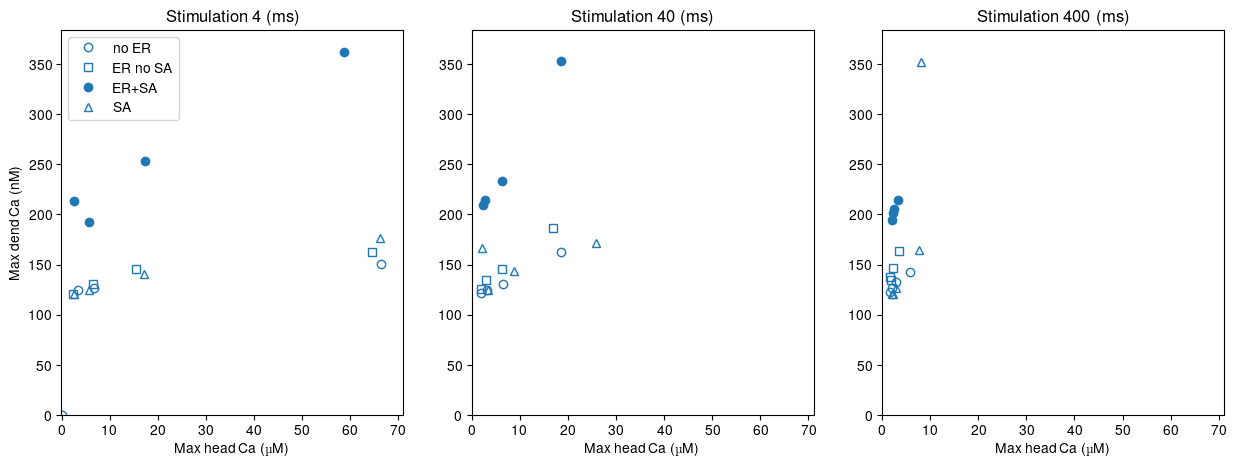
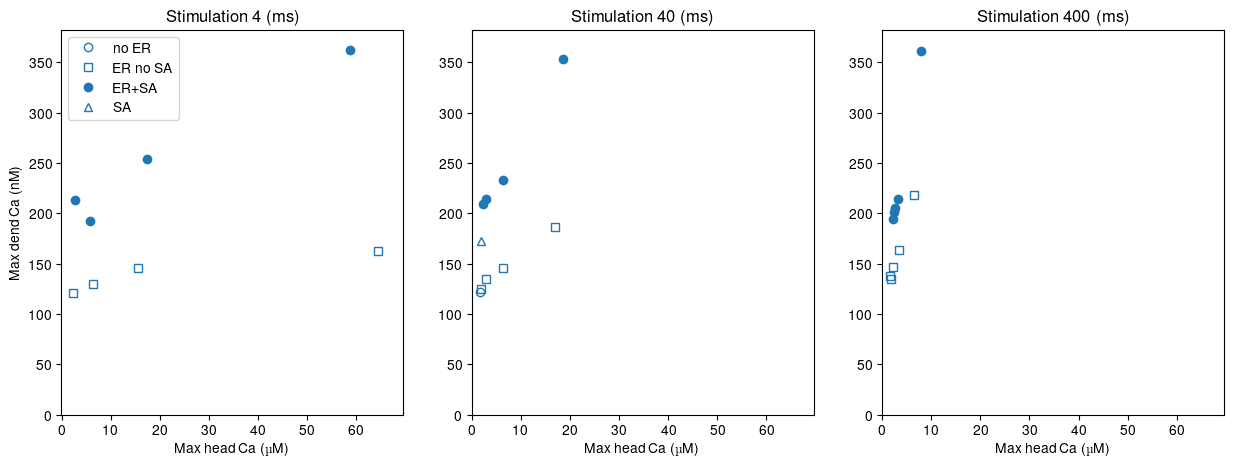
Current state of results

diff --git a/scripts/utility_functions.py b/scripts/utility_functions.py
@@ -417,57 +417,64 @@ def get_distance(conc_dict, dt, t_init, stim_len, spine_idx, rollo=True,
     
     for i, concentration in enumerate(conc_dict.values()):
         ca_conc = np.zeros((shape,))
-        
-        
+      
         new_beg = int((t_init)/dt)
+        ca_ctrl = concentration[:, int(1000/dt):new_beg].mean(axis=(0,1))
+        ca_std = concentration[:, int(1000/dt):new_beg].std()
+        try:
+            ca_max = concentration[:, new_beg:].max()/2 #ca_ctrl+6*ca_std
+       
+        except ValueError:
+            continue
+
+        ca_lim = ca_ctrl+5*ca_std
         indices = []
         for j in range(spine_idx, shape):
             
             try:
-                new_idx = concentration[j, new_beg-100:new_beg + stim_len
+                new_idx = concentration[j, new_beg:new_beg + stim_len
                                         + interval].argmax()
             except ValueError:
                 continue
 
-            ca_conc[j] = concentration[j, new_beg-100+new_idx]
-
-            if ca_conc[j] > limit*ca_ctrl and j==spine_idx:
+            ca_conc[j] = concentration[j, new_beg+new_idx]
+            
+            if ca_conc[j] > ca_lim and j==spine_idx:
                 indices.append(j)
-            elif ca_conc[j] > limit*ca_ctrl and j-1 in indices:
+            elif ca_conc[j] > ca_lim and j-1 in indices:
                     indices.append(j)
-            elif ca_conc[j] > limit*ca_ctrl and j-2 in indices:
+            elif ca_conc[j] > ca_lim and j-2 in indices:
                     indices.append(j)
                     indices.append(j-1)
             else:
                 break
-            print(j, ca_conc[j], new_beg +new_idx -100-int((t_init)/dt))
+
             if rollo:
                 new_beg = new_beg +new_idx -100
     
         new_beg = int((t_init)/dt)         
         for j in range(spine_idx-1, -1, -1):
             try:
-                new_idx = concentration[j, new_beg-100:new_beg
+                new_idx = concentration[j, new_beg:new_beg
                                         +stim_len+interval].argmax()
             except ValueError:
                 continue
-            ca_conc[j] = concentration[j, new_beg-100+new_idx]
+            ca_conc[j] = concentration[j, new_beg+new_idx]
          
-            if ca_conc[j] > limit*ca_ctrl and j==spine_idx-1:
+            if ca_conc[j] > ca_lim and j==spine_idx-1:
                 indices.append(j)
                 
-            elif ca_conc[j] > limit*ca_ctrl and j+1 in indices:
+            elif ca_conc[j] > ca_lim and j+1 in indices:
                 indices.append(j)
-            elif ca_conc[j] > limit*ca_ctrl and j+2 in indices:
+            elif ca_conc[j] > ca_lim and j+2 in indices:
                 indices.append(j)
                 indices.append(j+1)
             else:
                 break
-            print(j, ca_conc[j], new_beg +new_idx -100-int((t_init)/dt))
             if rollo:
                 new_beg = new_beg + new_idx -100
         decays[i] = len(indices)/2*0.5
-        #print(indices)
+        
     return decays
 
 
@@ -568,6 +575,8 @@ def make_distance_figs(directories, stim_dict, output, types, markers,
                        ylabel=r"Spatial spread ($\unit{\micro\metre}$))"):
     fig1, ax1 = plt.subplots(1, len(stim_dict.keys()),
                              figsize=(len(stim_dict.keys())*5, 5))
+    fig2, ax2 = plt.subplots(1, len(stim_dict.keys()),
+                              figsize=(len(stim_dict.keys())*5, 5))
     for k, dur in enumerate(stim_dict.keys()):
         
         
@@ -595,26 +604,34 @@ def make_distance_figs(directories, stim_dict, output, types, markers,
                 trials = len(dend_ca.keys())
                 auch = np.zeros((trials))
                 for j, trial in enumerate(dend_ca.keys()):
-                    auch[j] = head_ca[trial][1, t_start:].sum()/(71*len(head_ca[trial][1, t_start:]))
-
+                    auch[j] = head_ca[trial][1, t_start:].sum()/(len(head_ca[trial][1, t_start:])*head_ca[trial][1,:t_start].mean())
+                    
                 spread = get_distance(dend_ca, dt, t_init=t_init, stim_len=int(dur),
                                       spine_idx=spine_idx)
                 auc_head_m.append(auch.mean())
+                
                 auc_head_e.append(auch.std()/trials**0.5)
                 spread_m.append(spread.mean())
                 spread_e.append(spread.std()/trials**0.5)
-                
+                ax2[k].plot(auch, spread,label=types[i], marker=markers[i],
+                            fillstyle=fillstyles[i], color="tab:blue",
+                            linewidth=0)
             print(auc_head_m, spread_m, spread_e)
-            ax1[k].errorbar(auc_head_m, spread_m, yerr=spread_e, xerr=auc_head_e,label=types[i], marker=markers[i],
-                            fillstyle=fillstyles[i], color="tab:blue", linewidth=0)
+            ax1[k].errorbar(auc_head_m, spread_m, spread_e,
+                            label=types[i], marker=markers[i],
+                            fillstyle=fillstyles[i], color="tab:blue",
+                            linewidth=0)
         ax1[k].set_title("Stimulation %s (ms)"% dur)      
-
-           
-            
+        ax2[k].set_title("Stimulation %s (ms)"% dur)      
         ax1[k].set_ylabel(ylabel)
         ax1[k].set_xlabel(xlabel)
+        ax2[k].set_ylabel(ylabel)
+        ax2[k].set_xlabel(xlabel)
+
     pretty_axis(ax1)
+    pretty_axis(ax2)
     ax1[0].legend()
+    ax2[0].legend()
     return fig1
 
 
@@ -671,9 +688,9 @@ def max_vs_auc_head_neck_dend(directories, stim_dict, output, types, markers,
                     except ValueError:
                         break
                     maxd[j] = dend_ca[trial][:, t_start:].mean(axis=0).max()
-                    auch[j] = head_ca[trial][1, t_start:].sum()/71/len(head_ca[trial][1, t_start:])
-                    aucn[j] = neck_ca[trial][:, t_start:].sum()/71/len(head_ca[trial][1, t_start:])
-                    aucd[j] = dend_ca[trial][:, t_start:].sum()/2/71/len(head_ca[trial][1, t_start:])
+                    auch[j] = head_ca[trial][1, t_start:].sum()/(len(head_ca[trial][1, t_start:])*head_ca[trial][1,:t_start].mean())
+                    aucn[j] = neck_ca[trial][:, t_start:].sum()/(len(head_ca[trial][1, t_start:])*neck_ca[trial][:,:t_start].mean())
+                    aucd[j] = dend_ca[trial][:, t_start:].sum()/2/(len(head_ca[trial][1, t_start:])*dend_ca[trial][:, :t_start].mean())
                     
              
                 auc_head_m.append(auch.mean())

diff --git a/scripts/max_ca_vs_distance_ca_inj.py b/scripts/max_ca_vs_distance_ca_inj.py
@@ -1,0 +1,34 @@
+import os
+
+import matplotlib.pyplot as plt
+
+import utility_functions as utils
+
+
+colors = {"1.2": 'tab:blue',
+          "2.4": 'tab:purple',
+          "6.0": 'tab:green'}
+
+files_no_ER_ctrl = os.path.join("..", "1_spine_1_EPSP",
+                           "model_RyR2CaM_%s_um_dend_spine_1_EPSP.h5")
+files_ER_ctrl = os.path.join("..", "1_spine_1_EPSP",
+                             "model_RyR2CaM_RyR3CaM_%s_um_dend_spine_1_EPSP.h5")
+files_ER_big_spine = os.path.join("..", "1_spine_1_EPSP",
+                                  "model_RyR2CaM_RyR3CaM_%s_um_dend_big_spine_1_EPSP.h5")
+files_ER_big_spine_IC = os.path.join("..", "1_spine_1_EPSP",
+                                  "model_RyR2CaM_RyR3CaM_%s_um_dend_big_spine_IC_1_EPSP.h5")
+
+dend_diam = ["1.2"]
+types = ["no spine ER", "spine ER", "big spine ER", "big spine RyR3CaM in spine head"]
+markers = ["^", "o", "s", "*"]
+
+
+if __name__ == '__main__':
+    fig =  utils.make_distance_fig([files_no_ER_ctrl, files_ER_ctrl, files_ER_big_spine,
+                                    files_ER_big_spine_IC],
+                                   t_init=3000, dend_diam=dend_diam, what_species="Ca",
+                                   output_name="all",
+                                   colors=colors, types=types, markers=markers)
+    plt.show()
+    fig.savefig("Max_Ca_conc_1_EPSP_ctrl.png", dpi=100, bbox_inches="tight")
+   

diff --git a/scripts/spatial_spread_Ltype.py b/scripts/spatial_spread_Ltype.py
@@ -37,9 +37,9 @@ region_list = ["dend01", "dend02", "dend03", "dend04", "dend05", "dend06", "dend
                "dend21"]
 spine_idx = 21
 if __name__ == '__main__':
-    rollo = False
+    rollo = True
     dirs = [file_dend_ER_ctrl,file_dend_ER_dend_Ca, file_spine_ER_dend_ER,
-            file_spine_ER_dend_ER_dend_Ca, file_no_ER_Ltype]
+            file_spine_ER_dend_ER_dend_Ca]#, file_no_ER_Ltype]
     fig = utils.make_distance_figs(dirs, stim_dict, output, types, markers,
                        fillstyles, length=42, spine_idx=21, t_init=t_init)
     fig.savefig("Spatial_spread_Ltype_%s.png" % rollo, dpi=100, bbox_inches="tight")

diff --git a/scripts/spatial_spread_ER_no_ER_old_age.py b/scripts/spatial_spread_ER_no_ER_old_age.py
@@ -41,7 +41,7 @@ region_list = ["dend01", "dend02", "dend03", "dend04", "dend05", "dend06", "dend
                "dend21"]
 spine_idx = 21
 if __name__ == '__main__':
-    rollo = False
+    rollo = True
     dirs = [file_dend_ER_ctrl, file_dend_ER_oa, file_spine_ER_dend_ER, file_spine_ER_dend_ER_oa] 
     fig = utils.make_distance_figs(dirs, stim_dict, output, types, markers,
                        fillstyles, length=42, spine_idx=21, t_init=t_init)

diff --git a/scripts/spatial_spread_ER_no_ER.py b/scripts/spatial_spread_ER_no_ER.py
@@ -38,7 +38,7 @@ region_list = ["dend01", "dend02", "dend03", "dend04", "dend05", "dend06", "dend
                "dend21"]
 spine_idx = 21
 if __name__ == '__main__':
-    rollo = False
+    rollo = True
     dirs = [file_no_ER_ctrl, file_dend_ER_ctrl, file_spine_ER_dend_ER, file_spine_ER_no_dend_ER]
     fig = utils.make_distance_figs(dirs, stim_dict, output, types, markers,
                        fillstyles, length=42, spine_idx=21, t_init=t_init)

diff --git a/scripts/spatial_spread_Ltype_IP3.py b/scripts/spatial_spread_Ltype_IP3.py
@@ -53,7 +53,7 @@ region_list = ["dend01", "dend02", "dend03", "dend04", "dend05", "dend06", "dend
                "dend21"]
 spine_idx = 21
 if __name__ == '__main__':
-    rollo = False
+    rollo = True
     dirs = [file_dend_ER_Ltype, file_dend_ER_Ltype_IP3,
             file_spine_ER_dend_ER_Ltype, file_spine_ER_dend_ER_Ltype_IP3]
     fig = utils.make_distance_figs(dirs, stim_dict, output, types, markers,

diff --git a/scripts/spatial_spread_Ltype_old_age.py b/scripts/spatial_spread_Ltype_old_age.py
@@ -44,7 +44,7 @@ region_list = ["dend01", "dend02", "dend03", "dend04", "dend05", "dend06", "dend
                "dend21"]
 spine_idx = 21
 if __name__ == '__main__':
-    rollo = False
+    rollo = True
     dirs = [
         file_dend_ER_dend_Ca, file_dend_ER_dend_Ca_old_age,
         file_spine_ER_dend_ER_dend_Ca,
